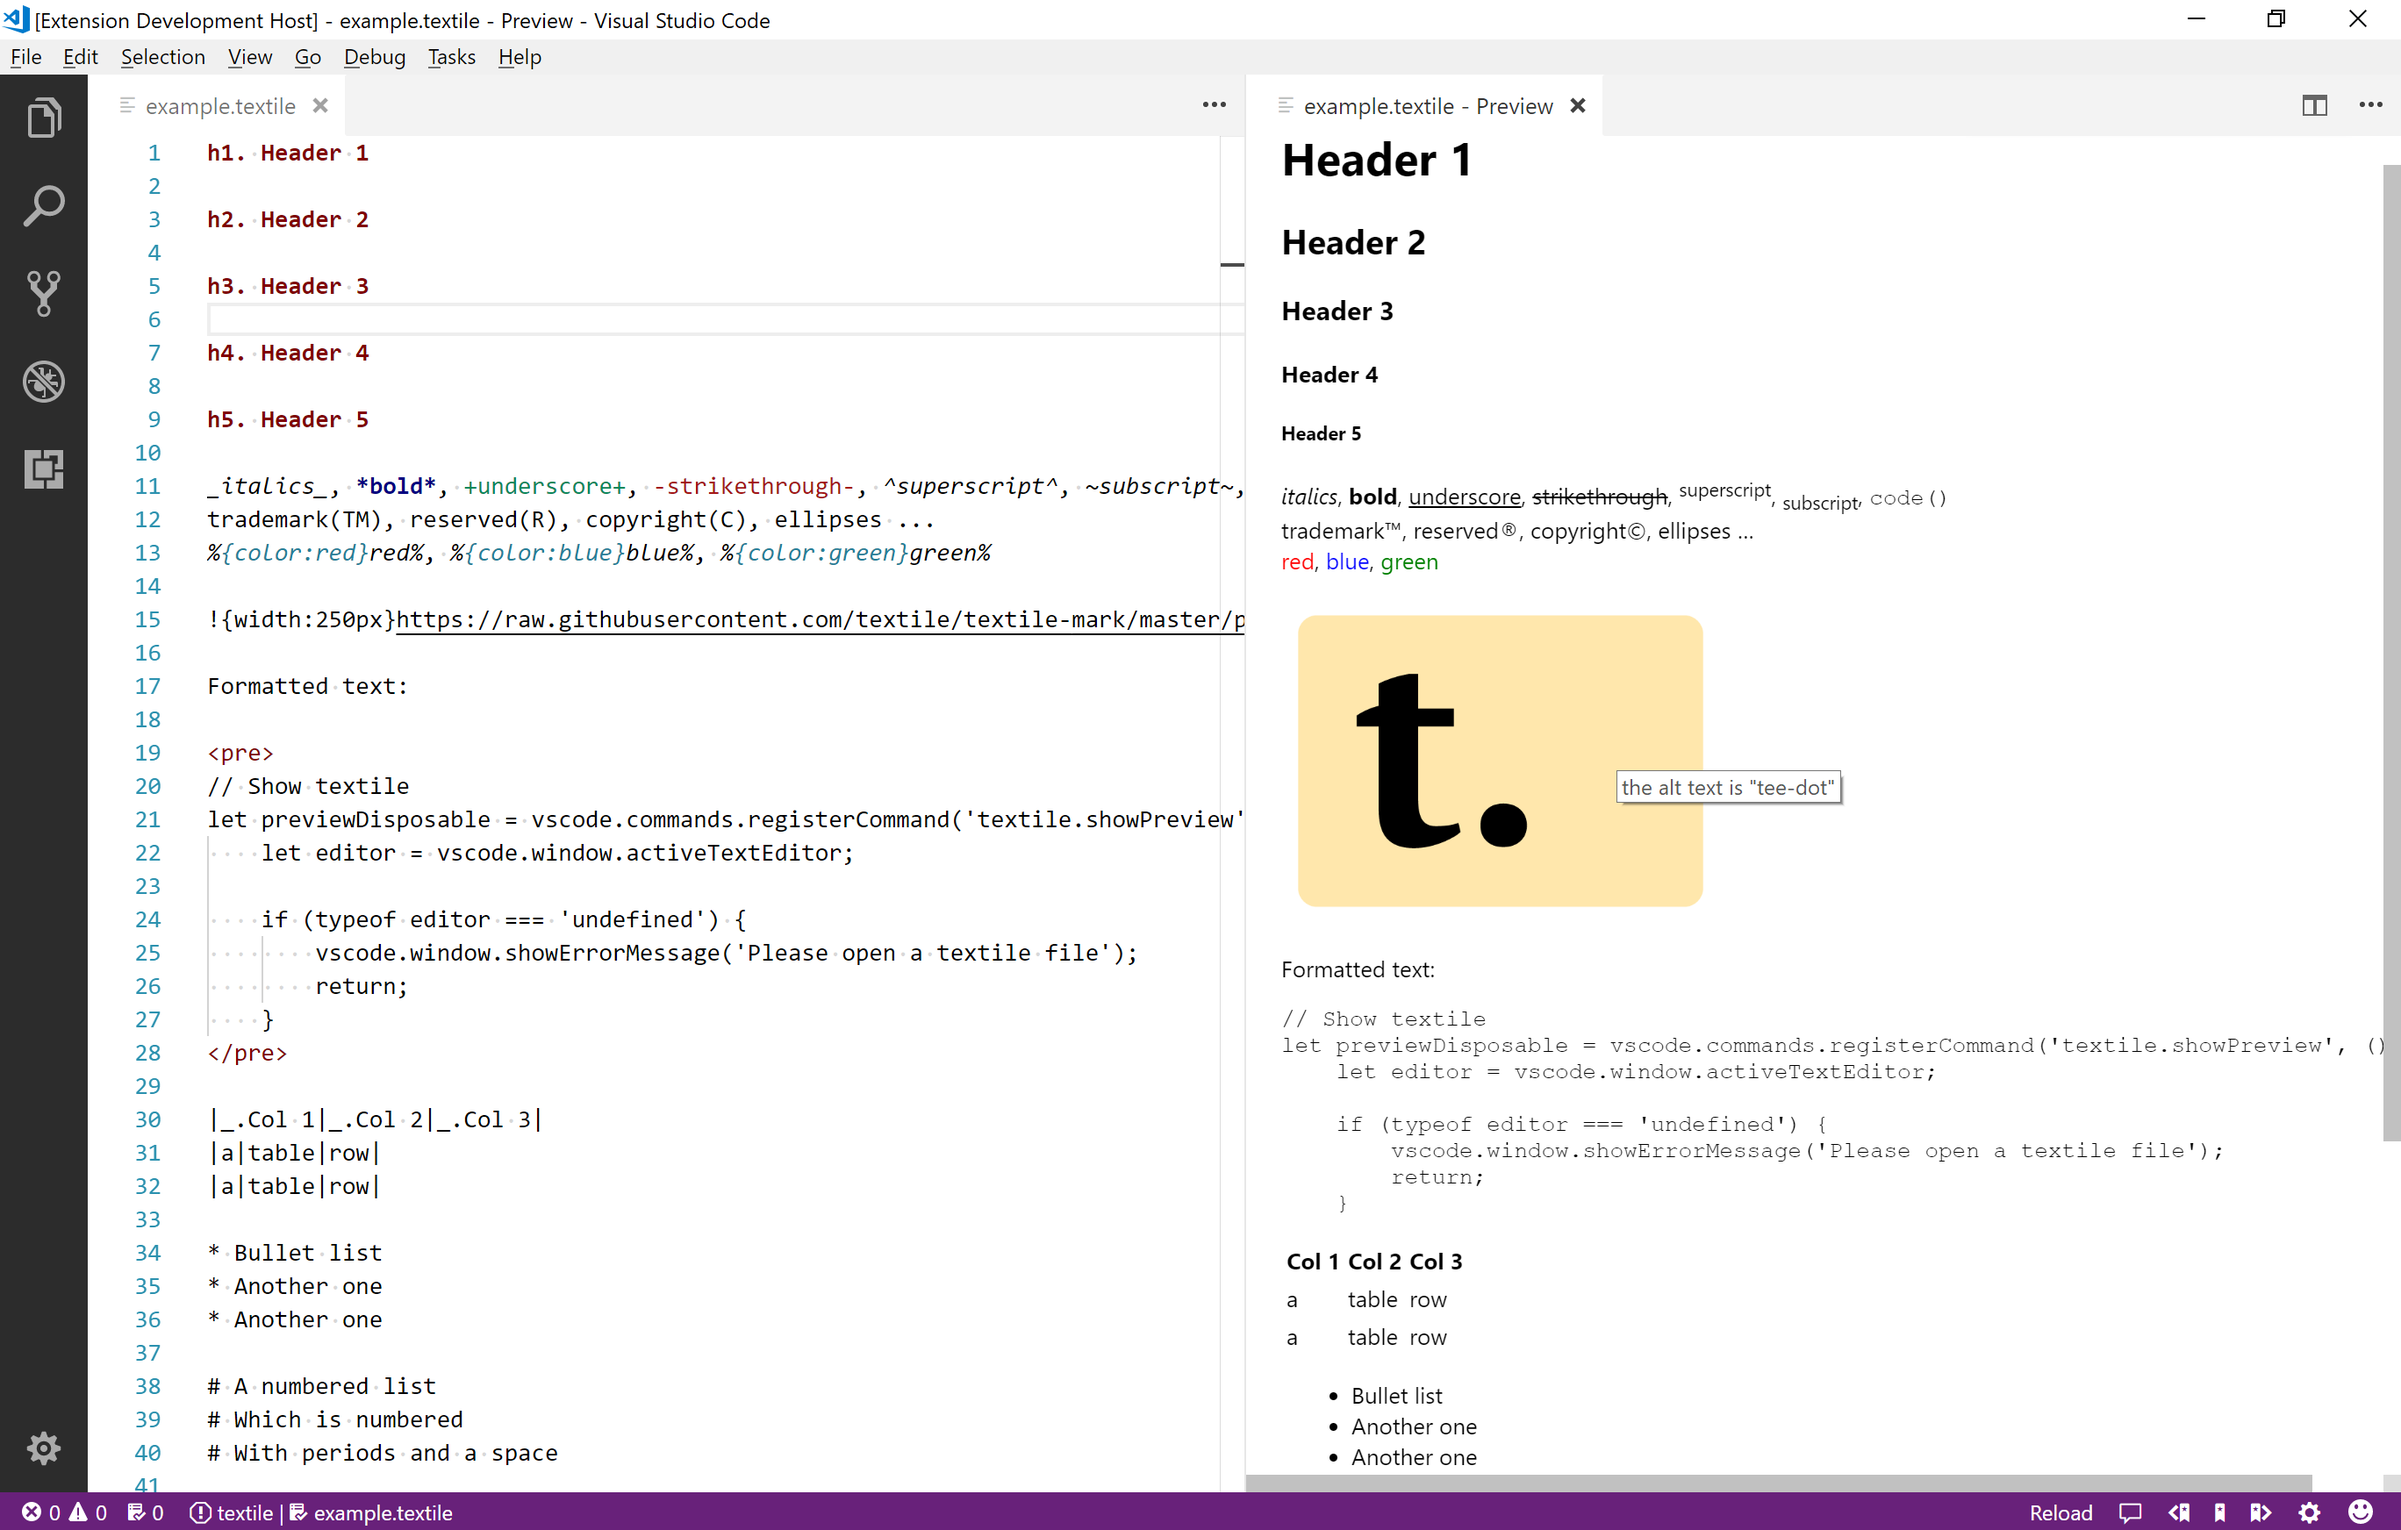
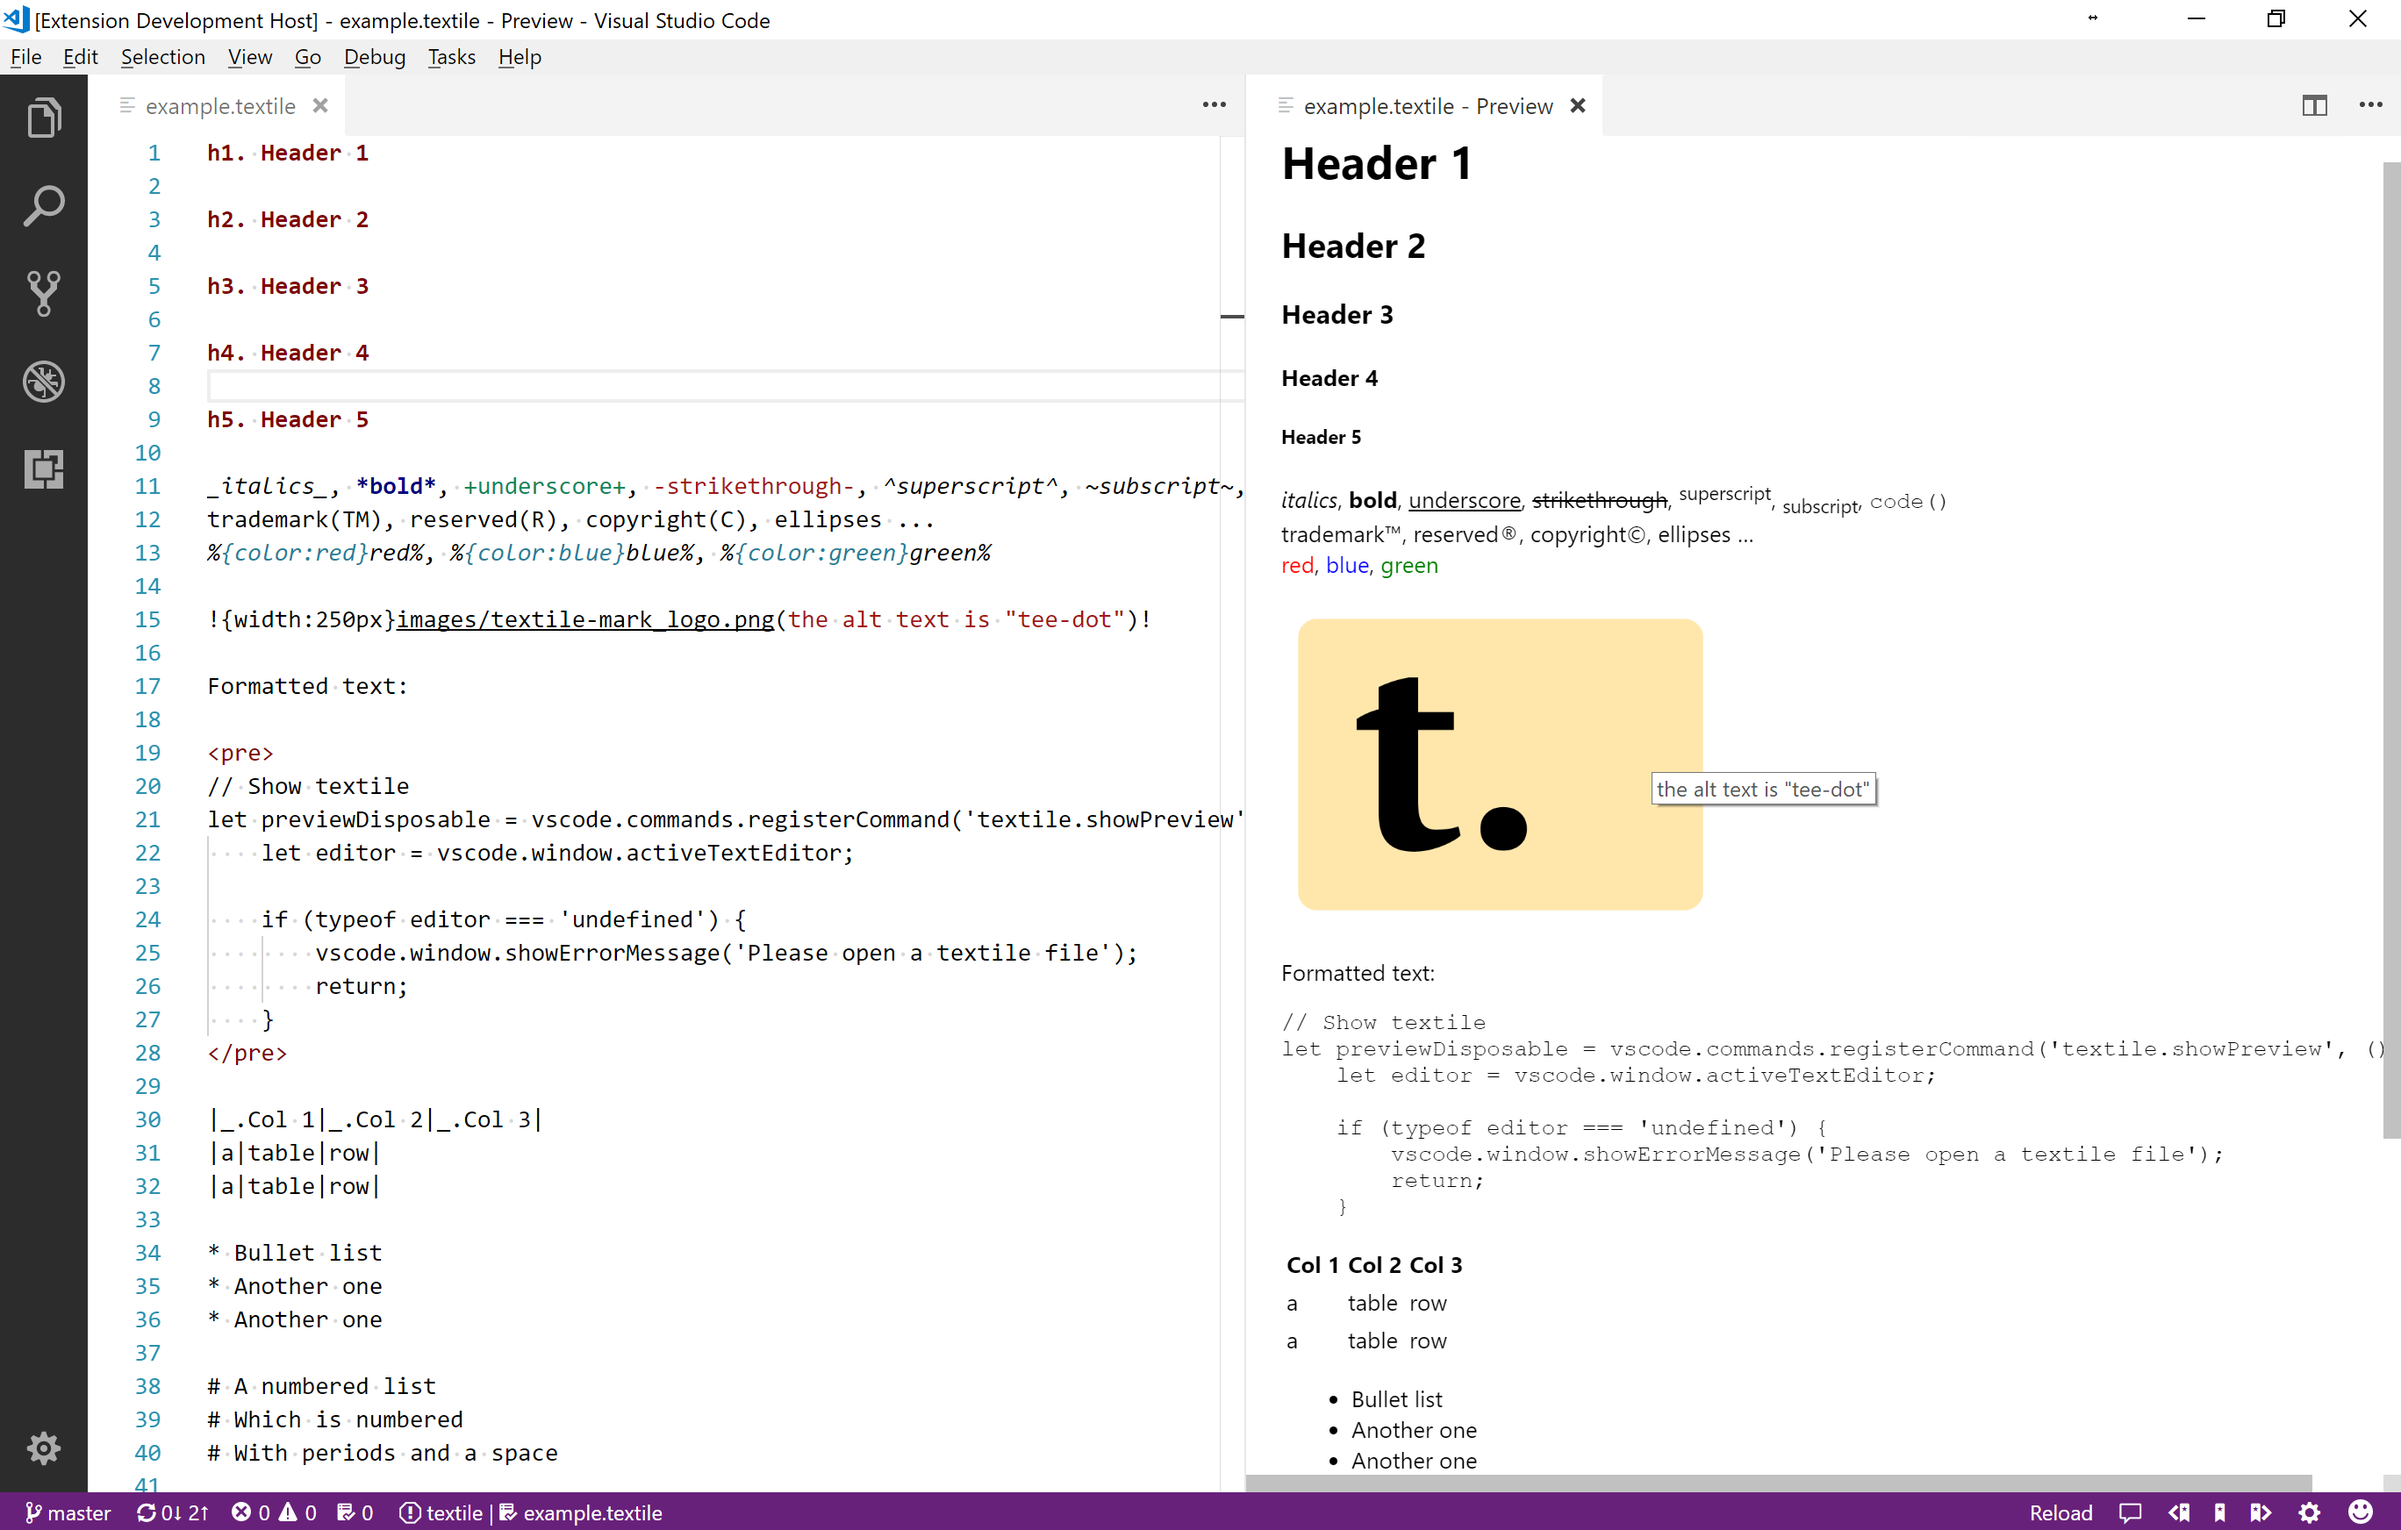
1.0.1 - Add support for relative image paths

diff --git a/src/imagePath.ts b/src/imagePath.ts
@@ -1,0 +1,60 @@
+'use strict';
+// The module 'vscode' contains the VS Code extensibility API
+// Import the module and reference it with the alias vscode in your code below
+import * as vscode from 'vscode';
+import * as path from 'path';
+
+export function imagePath(sourceText: string, sourceUri: vscode.Uri) {
+    // Regex
+    //      image character                       : !
+    //      group 1, optional format specifiers   : .{...} or .(...)
+    //      group 2, mandatory image path         : ...
+    //      group 3, optional alternate image text: (...)
+    //      image character                       : !
+    var imageRegEx = /!(.?[\{|\(].*?[\}|\)])?(.*?)(\(.*?\))?!/;
+    var result = '';
+    
+    //Look for image
+    while (sourceText) {
+        let match = sourceText.match(imageRegEx);
+
+        if (match) {
+            let uri = vscode.Uri.parse(match[2]);
+
+            if (!uri.scheme && uri.path && !uri.fragment) {
+                // Assume it must be a file
+                if (uri.path[0] === '/') {
+                     let root = vscode.workspace.getWorkspaceFolder(sourceUri);
+                    if (root) {
+                        uri = vscode.Uri.file(path.join(root.uri.fsPath, uri.path));
+                    } 
+                } else {
+                    uri = vscode.Uri.file(path.join(path.dirname(sourceUri.path), uri.path));
+                }
+            }
+
+            result += sourceText.substring(0, match.index + 1);
+
+            if (match[1]) {
+                // Contains optional image formatting options
+                result += match[1];
+            }
+
+            result += uri.toString();
+
+            if (match[3]) {
+                // Contains optional alt text
+                result += match[3];
+            }
+
+            result += '!';
+            sourceText = sourceText.substring(match.index + match[0].length);
+        }
+        else {
+            result += sourceText;
+            sourceText = '';
+        }
+    }
+
+    return result;
+}

diff --git a/src/contentProvider.ts b/src/contentProvider.ts
@@ -3,6 +3,8 @@
 // Import the module and reference it with the alias vscode in your code below
 import * as vscode from 'vscode';
 
+import { imagePath } from './imagePath';
+
 const textile = require('textile-js');
 
 export function packTextileUri(uri: vscode.Uri) {
@@ -36,7 +38,8 @@ export class textileContentProvider implements vscode.TextDocumentContentProvide
 
 	public async provideTextDocumentContent(uri: vscode.Uri): Promise<string> {
 		let document = await vscode.workspace.openTextDocument( unpackTextileUri(uri) );
-		let body = await textile( document.getText() );
+		let text = imagePath( document.getText(), unpackTextileUri(uri) );
+		let body = await textile( text );
 		
 		return `<!DOCTYPE html>
 			<html>

diff --git a/CHANGELOG.md b/CHANGELOG.md
@@ -4,6 +4,11 @@ All notable changes to the "textile-preview" extension will be documented in thi
 
 ## [Unreleased]
 
+- N/A
+
+## [1.0.1] - 2018-01-04
+
+- Add support for relative image paths
 - Update VS code environment and dependencies
 
 ## [1.0.0] - 2018-01-03

diff --git a/README.md b/README.md
@@ -10,6 +10,7 @@ This extension is a wrapper for the Node.js package [textile-js](https://www.npm
 
 * Displays textile preview
 * Preview is updated automatically
+* Supports relative image paths
 
 ## Available Commands
 
